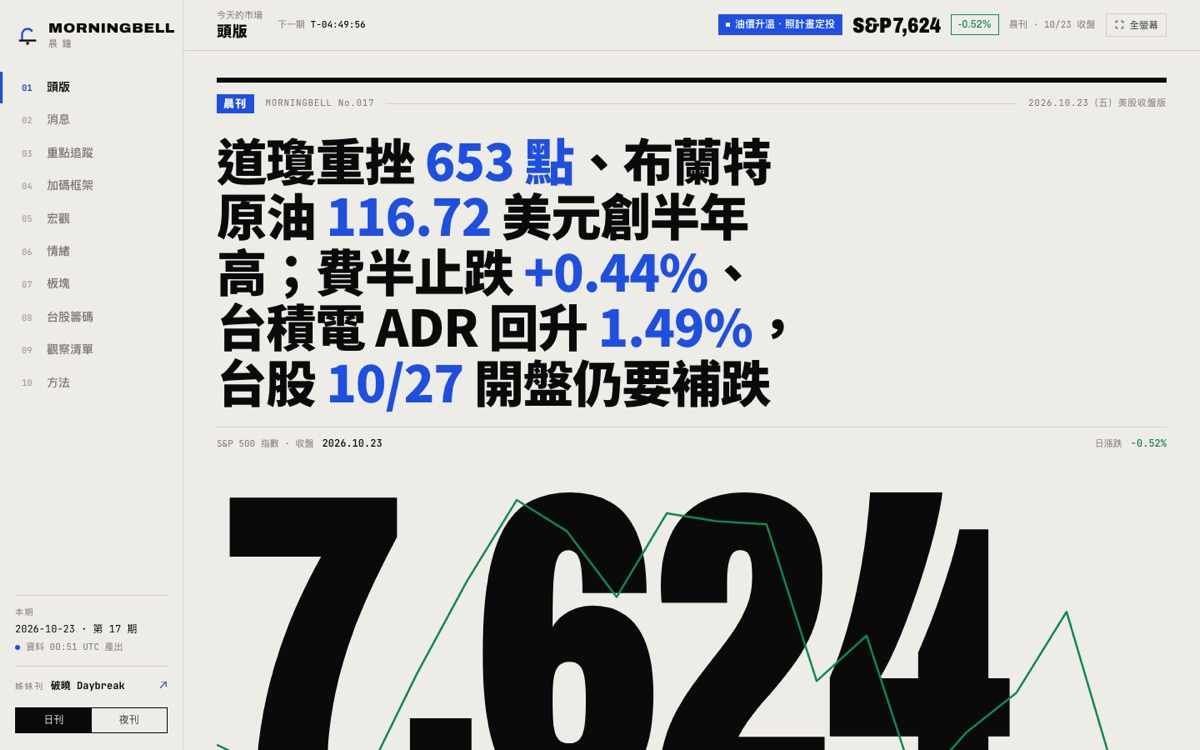
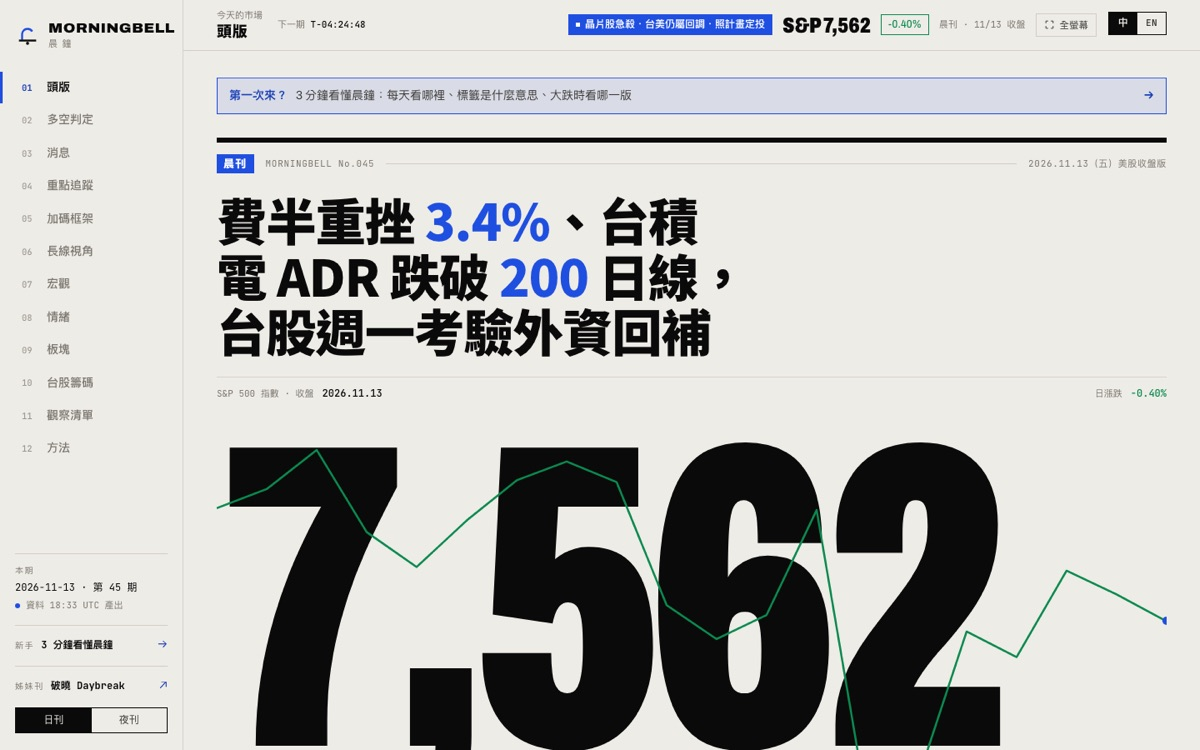
Morningbell 有英文版了：拿掉 en.ui: 'zh'，章節改成現在的 12 版，補英文封面
12 版：頭版、多空判定、消息、重點追蹤、加碼框架（Add-on plan）、長線視角、宏觀、情緒、板塊、台股籌碼、觀察清單、方法。

diff --git a/data/lab.js b/data/lab.js
@@ -124,7 +124,7 @@ window.LAB = {
       desc: '兩市收盤、要聞解讀、回撤與加碼位置、宏觀、情緒、板塊輪動與台股籌碼。晨刊看美股、午後刊看台股，Daybreak 的姊妹刊。',
       facts: ['晨刊 07:00／午後刊 16:00', '紅漲綠跌', '加碼框架回測'],
       en: {
-        zh: 'Market Daily', kind: 'Daily brief', cadence: 'Two editions a day', sectionsLabel: 'Page', ui: 'zh',
+        zh: 'Market Daily', kind: 'Daily brief', cadence: 'Two editions a day', sectionsLabel: 'Page', cover: 'assets/covers/morningbell-en.jpg',
         tagline: 'A daily on US and Taiwan stocks for long-term investors.',
         desc: "Both markets' closes, the news with analysis, drawdowns and where to add, macro, sentiment, sector rotation and Taiwan institutional flows. The morning edition covers US stocks and the afternoon edition covers Taiwan. A sister title to Daybreak.",
         facts: ['Morning 07:00 / afternoon 16:00', 'Red for up, green for down', 'Back-tested plan for adding on dips'],
@@ -137,15 +137,17 @@ window.LAB = {
       sectionsLabel: '版面',
       sections: [
         { n: '01', t: '頭版', u: '#overview', en: 'Front page' },
-        { n: '02', t: '消息', u: '#news', en: 'News' },
-        { n: '03', t: '重點追蹤', u: '#focus', en: 'Focus list' },
-        { n: '04', t: '加碼框架', u: '#position', en: 'Adding on dips' },
-        { n: '05', t: '宏觀', u: '#macro', en: 'Macro' },
-        { n: '06', t: '情緒', u: '#sentiment', en: 'Sentiment' },
-        { n: '07', t: '板塊', u: '#sectors', en: 'Sectors' },
-        { n: '08', t: '台股籌碼', u: '#taiwan', en: 'Taiwan flows' },
-        { n: '09', t: '觀察清單', u: '#watch', en: 'Watchlist' },
-        { n: '10', t: '方法', u: '#method', en: 'Method' },
+        { n: '02', t: '多空判定', u: '#regime', en: 'Bull or bear' },
+        { n: '03', t: '消息', u: '#news', en: 'News' },
+        { n: '04', t: '重點追蹤', u: '#focus', en: 'Focus list' },
+        { n: '05', t: '加碼框架', u: '#position', en: 'Add-on plan' },
+        { n: '06', t: '長線視角', u: '#longrun', en: 'Long view' },
+        { n: '07', t: '宏觀', u: '#macro', en: 'Macro' },
+        { n: '08', t: '情緒', u: '#sentiment', en: 'Sentiment' },
+        { n: '09', t: '板塊', u: '#sectors', en: 'Sectors' },
+        { n: '10', t: '台股籌碼', u: '#taiwan', en: 'Taiwan flows' },
+        { n: '11', t: '觀察清單', u: '#watch', en: 'Watchlist' },
+        { n: '12', t: '方法', u: '#method', en: 'Method' },
       ],
       links: [
         { t: '當日數據 latest.json', u: 'data/latest.json', type: 'data', en: "Today's data latest.json" },
